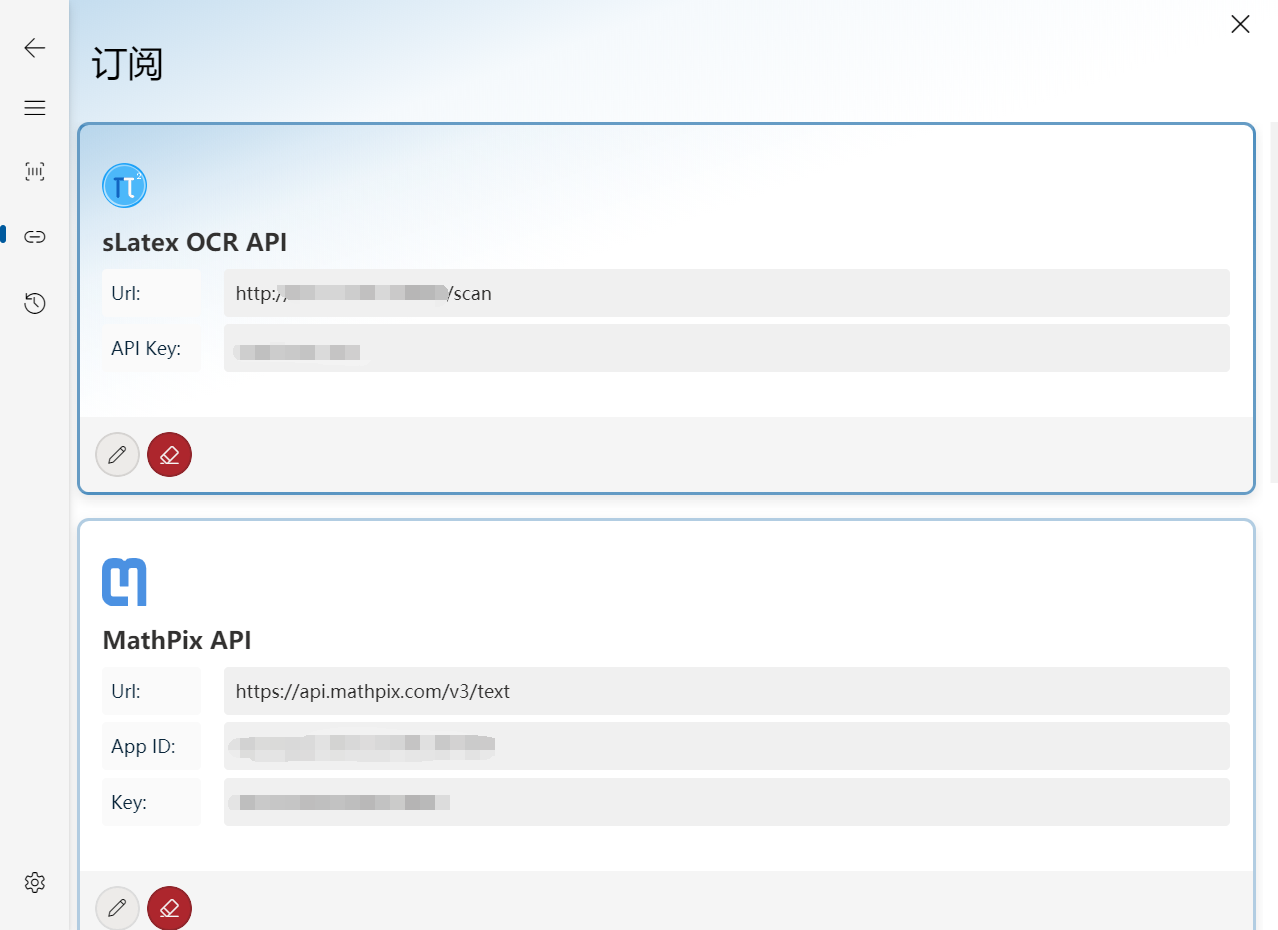
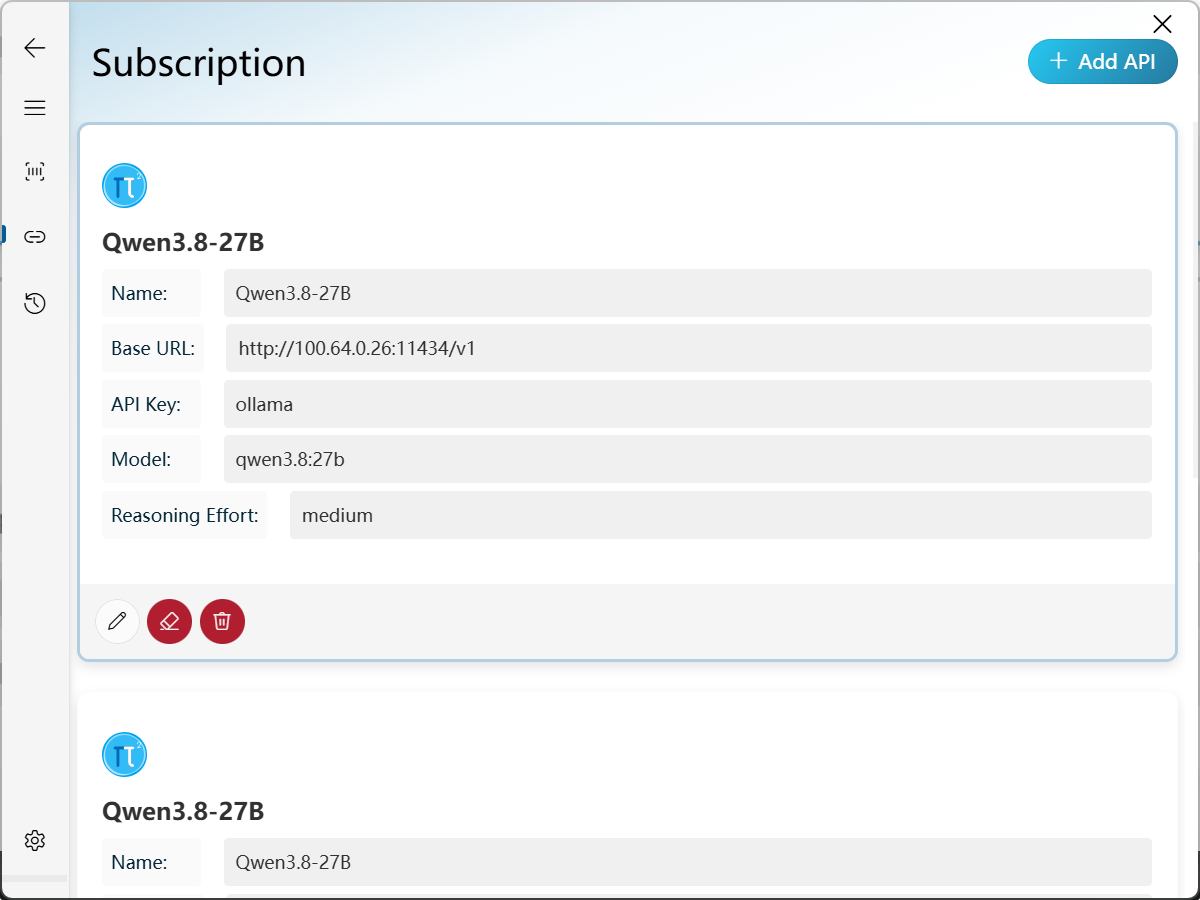
[update] Update docs.

diff --git a/README.md b/README.md
@@ -1,78 +1,113 @@
 <div align="center">
-    <img src="./src/assets/logo.svg" width="60" style="width: 60px;"/>
-    <p>MathFX</p>
-    <p><img src="https://img.shields.io/github/v/release/Creator-SN/MathFX" /></p>
+  <img src="./src/renderer/src/assets/logo.svg" width="72" alt="MathFX logo" />
+  <h1>MathFX</h1>
+  <p>A beautiful, friendly, and minimal formula OCR workspace powered by VLM APIs.</p>
+  <p>
+    <a href="https://github.com/Creator-SN/MathFX/releases"><img src="https://img.shields.io/github/v/release/Creator-SN/MathFX?label=release" alt="Latest release" /></a>
+    <a href="https://github.com/Creator-SN/MathFX/actions/workflows/release.yml"><img src="https://github.com/Creator-SN/MathFX/actions/workflows/release.yml/badge.svg" alt="Release workflow" /></a>
+    <a href="LICENSE"><img src="https://img.shields.io/badge/license-MIT-yellow.svg" alt="MIT license" /></a>
+  </p>
+  <p><a href="./docs/README.zh-CN.md">中文文档</a></p>
 </div>
 
-<p align="center">
-    <a href="LICENSE">
-      <img src="https://img.shields.io/badge/License-MIT-yellow.svg">
-    </a>
-</p>
+## What is MathFX?
 
-## 💡 MathFX(Preview)
+MathFX is a small cross-platform desktop tool for turning mathematical expressions into clean, editable LaTeX. Its core workflow is deliberately simple: capture a formula, let a vision-language model understand it, and copy the result wherever you need it.
 
-A pure open source and cross platforms Math Formulates OCR tool based on the Electron.
-
-<div align="center" style="display: flex; justify-content: space-around;">
-    <img src="./src/assets/docs/scan.png" width="320" style="width: 48%; box-shadow: 0px 3px 8px rgba(0, 0, 0, 0.1);"/>
-    <img src="./src/assets/docs/scan_dark.png" width="320" style="width: 48%; box-shadow: 0px 3px 8px rgba(0, 0, 0, 0.1);"/>
-</div>
-
-## 🎈 Platform
-
-- ✔ Windows 11 [Supported]
-- ✔ Windows 10 [Supported]
-- ✔ Mac(AMD64) [Supported]
-
-
-## ✨ Installation
-
-See the [Release Page](https://github.com/Creator-SN/MathFX/releases).
-
-## 🔨 Tutorial
-
-First, you need to set up the subscriptions, MathFX currently supports three formulate OCR APIs. Including:
-
-1. **SLatex OCR** **(Recommend)**: To build your own backend server, you can deploy the OCR server in this repo [SLatexOCR](https://github.com/aleversn/sLatexOCR).
-2. **Mathpix**: You can register the OCR API services with `$1` started, and the current pricing is much cheaper than directly using the Mathpix desktop application, each month you can have a `1,000` free requests. (`Although it costs $1 to sign up and a Credit Card is necessary, but the performance of this API is currently the best`).  [See Details](https://mathpix.com/ocr)
-3. **Xunfei** Formula Recognition API: You can register the OCR API for free and obtain a `500` requests per day. [See Details](https://www.xfyun.cn/service/formula-discern)
-4. **Baidu** Formula Recognition API: You can register the OCR API for free and obtain a `1,000` requests per month. [See Details](https://ai.baidu.com/tech/ocr/formula)
-
-> Note that the performance of `Xunfei` and `Baidu` OCR API is not good in complex science formulates scenes.
-
-Once you have an OCR API subscription, all you need to do is fill in the necessary information about the current subscription. Then click this subscription's item block until the block's border is `blue`.
+It is designed for papers, lecture notes, research workflows, and anyone who wants formula recognition without a crowded interface.
 
 <div align="center">
-    <img src="./src/assets/docs/subscription.png" style="width: 80%; box-shadow: 0px 3px 8px rgba(0, 0, 0, 0.1);"/>
+  <img src="./src/renderer/src/assets/docs/scan.png" width="48%" alt="MathFX light interface" />
+  <img src="./src/renderer/src/assets/docs/scan_dark.png" width="48%" alt="MathFX dark interface" />
 </div>
 
-Now you can scan for a new formulate scene on the `Scan` page or press `Alt + Shift/Cmd + X` to quick scan.
+## Highlights
 
-## ⌨ Shortcuts
+- **Minimal formula OCR** — capture a formula from any screen with a global shortcut and receive editable LaTeX.
+- **VLM API based** — use a vision-capable, OpenAI-compatible Chat API instead of being locked to a single OCR vendor.
+- **Your provider, your model** — configure a custom display name, base URL, API key, model, and `reasoning_effort` (defaults to `medium`).
+- **LangGraph orchestration** — the recognition request is represented as a small LangGraph workflow, making the model call and result parsing explicit and extensible.
+- **Manual LaTeX workspace** — edit or enter LaTeX by hand, render it immediately, and keep the corrected result in history.
+- **Copy in useful formats** — quickly copy bare LaTeX, inline math, display math, equation-environment LaTeX, rendered SVG, or a raster image for documents and desktop applications.
+- **History and navigation** — keep recognized formulas locally, browse previous results, edit them, and remove entries when they are no longer needed.
+- **Light and dark themes** — a compact interface that stays out of the way while you work.
+- **Windows and macOS releases** — packaged installers are built automatically through GitHub Actions.
 
-- `Alt` + `Shift/Cmd` + `M`: Show the main program.
-- `Alt` + `Shift/Cmd` + `X`: Start a new quick scan.
+## How recognition works
 
-## 🌏 Language
+MathFX sends the captured image to the VLM endpoint configured in the selected subscription. The model is instructed to return one JSON object containing KaTeX-compatible LaTeX. MathFX then parses the response and performs rendering, SVG generation, format conversion, and clipboard operations locally.
 
-Currently supports two languages.
+The default prompt asks the model to preserve fractions, roots, matrices, Greek letters, limits, superscripts, subscripts, aligned equations, operators, and visible text while returning no Markdown or explanation.
 
-- English
-- 简体中文(Chinese)
+Because MathFX uses a VLM API, the selected model must support image input. The endpoint should be compatible with the OpenAI Chat Completions interface, including hosted OpenAI-compatible services and local vision models.
+
+> Images are sent to the API provider configured by you. Review that provider's privacy and retention policy before using sensitive material.
+
+## Quick start
+
+1. Download the latest installer from the [Releases page](https://github.com/Creator-SN/MathFX/releases).
+2. Open **Subscriptions** and add a Chat API subscription.
+3. Fill in the name, base URL, API key, vision-capable model, and optional `reasoning_effort` (`medium` by default).
+4. Select the subscription so its active state is highlighted.
+5. Press the scan button or use `Alt + Shift + X` on Windows, or `Alt + Cmd + X` on macOS.
+
+<div align="center">
+  <img src="./src/renderer/src/assets/docs/subscription.png" width="80%" alt="MathFX subscription settings" />
+</div>
+
+## Editing and copying formulas
+
+After recognition, the formula can be corrected manually. MathFX renders the edited LaTeX with KaTeX and lets you copy the result in the format that fits the destination:
+
+- plain LaTeX source for editors such as VS Code;
+- inline or display LaTeX for Markdown and documentation;
+- an equation environment for LaTeX documents;
+- rendered SVG for Word and other rich document applications;
+- an image for applications that accept bitmap content.
+
+The formula and its source image are kept in the local history store so you can revisit, edit, copy, or delete them later.
+
+## Keyboard shortcuts
+
+- `Alt + Shift + X` on Windows / `Alt + Cmd + X` on macOS — capture a new formula.
+
+## Development
+
+Requirements: Node.js 20+, Yarn 1.x, and a VLM API key for end-to-end recognition.
+
+```bash
+yarn install
+yarn dev
+```
+
+Build the renderer and Electron bundles:
+
+```bash
+yarn build
+```
+
+Build platform packages locally:
+
+```bash
+yarn build:win
+yarn build:mac
+```
+
+Tagged pushes matching `v*` trigger the GitHub Actions release workflow. Windows produces an NSIS installer; macOS produces DMG and ZIP packages using `Icon.icns`.
+
+## Architecture
+
+- **Electron + Vue 3** — desktop shell and renderer UI.
+- **Vite / electron-vite** — development and production bundling.
+- **LangChain OpenAI + LangGraph** — VLM model integration and recognition graph.
+- **KaTeX** — local LaTeX rendering.
+- **Pinia + lowdb** — application state and local history/subscription persistence.
+- **VFluent 3** — compact Fluent-inspired UI components.
 
 ## Acknowledgements
 
-This Project is Develop Based on [VFluentForElectron](https://github.com/Creator-SN/VFluentForElectron).
+MathFX is built with [VFluent 3](https://github.com/Creator-SN/VFluentForElectron) and the Electron ecosystem.
 
 ## License
 
-MIT License
-
-Copyright (c) 2024 Creator SN®
-
-Permission is hereby granted, free of charge, to any person obtaining a copy of this software and associated documentation files (the "Software"), to deal in the Software without restriction, including without limitation the rights to use, copy, modify, merge, publish, distribute, sublicense, and/or sell copies of the Software, and to permit persons to whom the Software is furnished to do so, subject to the following conditions:
-
-The above copyright notice and this permission notice shall be included in all copies or substantial portions of the Software.
-
-THE SOFTWARE IS PROVIDED "AS IS", WITHOUT WARRANTY OF ANY KIND, EXPRESS OR IMPLIED, INCLUDING BUT NOT LIMITED TO THE WARRANTIES OF MERCHANTABILITY, FITNESS FOR A PARTICULAR PURPOSE AND NONINFRINGEMENT. IN NO EVENT SHALL THE AUTHORS OR COPYRIGHT HOLDERS BE LIABLE FOR ANY CLAIM, DAMAGES OR OTHER LIABILITY, WHETHER IN AN ACTION OF CONTRACT, TORT OR OTHERWISE, ARISING FROM, OUT OF OR IN CONNECTION WITH THE SOFTWARE OR THE USE OR OTHER DEALINGS IN THE SOFTWARE.
+MathFX is released under the [MIT License](LICENSE).

diff --git a/docs/README.zh-CN.md b/docs/README.zh-CN.md
@@ -1,0 +1,111 @@
+<div align="center">
+  <img src="../src/renderer/src/assets/logo.svg" width="72" alt="MathFX Logo" />
+  <h1>MathFX</h1>
+  <p>一个美观、友好、简约的公式 OCR 工作台，基于 VLM API 工作。</p>
+  <p>
+    <a href="https://github.com/Creator-SN/MathFX/releases"><img src="https://img.shields.io/github/v/release/Creator-SN/MathFX?label=release" alt="最新版本" /></a>
+    <a href="https://github.com/Creator-SN/MathFX/actions/workflows/release.yml"><img src="https://github.com/Creator-SN/MathFX/actions/workflows/release.yml/badge.svg" alt="发布工作流" /></a>
+    <a href="../LICENSE"><img src="https://img.shields.io/badge/license-MIT-yellow.svg" alt="MIT License" /></a>
+  </p>
+  <p><a href="../README.md">English Documentation</a></p>
+</div>
+
+一个美观、友好、简约的公式 OCR 桌面工具，基于 VLM API 将屏幕上的数学公式转换为可编辑的 LaTeX。
+
+## MathFX 是什么？
+
+MathFX 是一个跨平台桌面公式识别工具。它的核心流程很简单：截取屏幕上的公式，交给具备视觉能力的语言模型识别，再将结果渲染和复制到你需要的位置。
+
+它适合论文写作、课程笔记、科研工作以及日常需要快速录入公式的场景。界面保持简洁，让公式本身成为重点。
+
+<div align="center">
+  <img src="../src/renderer/src/assets/docs/scan.png" width="48%" alt="MathFX 浅色界面" />
+  <img src="../src/renderer/src/assets/docs/scan_dark.png" width="48%" alt="MathFX 深色界面" />
+</div>
+
+## 主要功能
+
+- **简约公式 OCR**：从任意屏幕区域截取公式，转换为可编辑 LaTeX。
+- **基于 VLM API**：不绑定单一 OCR 厂商，使用支持图片输入的视觉语言模型完成识别。
+- **自定义 API**：可以配置自定义名称、Base URL、API Key、模型名称以及 `reasoning_effort`，默认值为 `medium`。
+- **LangGraph 调用流程**：通过 LangGraph 组织识别节点、模型调用和结果解析，便于后续扩展。
+- **手动输入和编辑 LaTeX**：识别后可以直接修改，也可以手动输入 LaTeX，实时查看渲染结果。
+- **多种格式复制**：支持纯 LaTeX、行内公式、独立公式、equation 环境、SVG 和图片格式，方便粘贴到 VS Code、Markdown、Word 或桌面应用。
+- **历史记录**：本地保存识别结果，支持浏览、编辑、复制和删除。
+- **浅色与深色主题**：简洁紧凑，不打扰主要工作流程。
+- **Windows 与 macOS**：通过 GitHub Actions 自动构建发布安装包。
+
+## 识别原理
+
+MathFX 会将截图发送到当前选中的 Chat API。模型收到图片和公式识别提示词后，返回包含 LaTeX 的 JSON 数据。随后，MathFX 在本地完成结果解析、KaTeX 渲染、SVG 生成、格式转换以及剪贴板写入。
+
+默认提示词要求模型返回兼容 KaTeX 的 LaTeX，并尽可能保留分数、根号、矩阵、希腊字母、上下标、极限、对齐公式、运算符和可见文本；模型不应返回 Markdown 代码块或额外解释。
+
+由于 MathFX 使用 VLM API，所选模型必须支持图片输入。API 应兼容 OpenAI Chat Completions 格式，可以是云端 OpenAI 兼容服务，也可以是支持视觉模型的本地服务。
+
+> 截图会发送给你配置的 API 服务商。处理敏感内容前，请先确认该服务商的隐私和数据留存政策。
+
+## 快速开始
+
+1. 从 [Releases](https://github.com/Creator-SN/MathFX/releases) 下载最新版本。
+2. 打开 **订阅** 页面，添加一个 Chat API。
+3. 填写名称、Base URL、API Key、支持图片输入的模型，以及可选的 `reasoning_effort`（默认 `medium`）。
+4. 点击选中该订阅，使其进入激活状态。
+5. 点击截图按钮，或使用 `Alt + Shift + X`（Windows）/ `Alt + Cmd + X`（macOS）快速截图。
+
+<div align="center">
+  <img src="../src/renderer/src/assets/docs/subscription.png" width="80%" alt="MathFX 订阅设置" />
+</div>
+
+## 编辑与复制公式
+
+识别完成后，可以直接手动修正 LaTeX。MathFX 使用 KaTeX 在本地渲染编辑结果，并提供适合不同场景的复制方式：
+
+- 复制纯 LaTeX 源码，适合 VS Code 等代码编辑器；
+- 复制行内公式或独立公式，适合 Markdown 和文档；
+- 复制 `equation` 环境，适合 LaTeX 文档；
+- 复制渲染后的 SVG，适合 Word 等富文本应用；
+- 复制图片，适合只接受位图内容的桌面软件。
+
+公式及其原始截图会保存在本地历史记录中，可以随时重新编辑、复制或删除。
+
+## 快捷键
+
+- `Alt + Shift + X`（Windows）/ `Alt + Cmd + X`（macOS）：截取新的公式。
+
+## 开发与构建
+
+需要 Node.js 20+、Yarn 1.x，以及用于实际识别测试的 VLM API Key。
+
+```bash
+yarn install
+yarn dev
+```
+
+构建 Electron 和渲染进程：
+
+```bash
+yarn build
+```
+
+构建平台安装包：
+
+```bash
+yarn build:win
+yarn build:mac
+```
+
+推送匹配 `v*` 的 Git 标签会触发 GitHub Actions 自动发布。Windows 生成 NSIS 安装程序；macOS 使用 `Icon.icns` 生成 DMG 和 ZIP 安装包。
+
+## 技术栈
+
+- **Electron + Vue 3**：桌面应用和界面。
+- **Vite / electron-vite**：开发与生产构建。
+- **LangChain OpenAI + LangGraph**：VLM API 集成与识别流程。
+- **KaTeX**：本地 LaTeX 渲染。
+- **Pinia + lowdb**：应用状态及订阅、历史记录持久化。
+- **VFluent 3**：简洁的 Fluent 风格组件。
+
+## 开源协议
+
+MathFX 使用 [MIT License](../LICENSE) 开源。
